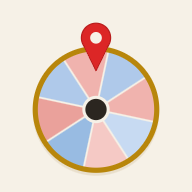
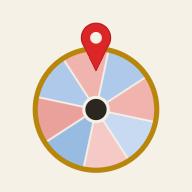
앱 아이콘에서 룰렛 아래 그림자를 빼고 깔끔하게
룰렛 뒤에 깔았던 진한 베이지 원(그림자 효과)을 없애 앱 머리 부분의 작은
룰렛과 같은 평평한 모양으로 통일. 서비스워커 캐시를 v4로 올려 v3 아이콘을
이미 받은 폰도 새 아이콘으로 교체.

diff --git a/sw.js b/sw.js
@@ -6,8 +6,8 @@
 // 계속 보이는 버그가 있었다 (앱 재설치로도 안 고쳐짐 - 저장공간을 공유하기 때문).
 // v2부터는: 문서(HTML)는 항상 "네트워크 우선"으로 최신 버전을 먼저 시도하고,
 // 오프라인일 때만 캐시로 대체한다. 아이콘/매니페스트 같은 정적 자산만 캐시 우선을 유지.
-// v3 (2026-10-04): 앱 아이콘을 새 디자인으로 바꿔서, 폰에 저장돼 있던 예전 아이콘을 버리도록 버전을 올림
-const CACHE_NAME = "baram-cache-v3";
+// v4 (2026-10-04): 앱 아이콘을 새 디자인(그림자 없는 룰렛 + 빨간 핀)으로 바꿔서, 폰에 저장돼 있던 예전 아이콘을 버리도록 버전을 올림
+const CACHE_NAME = "baram-cache-v4";
 const CORE_ASSETS = ["/", "/index.html", "/manifest.json", "/icon-192.png", "/icon-512.png", "/icon-maskable-192.png", "/icon-maskable-512.png"];
 
 self.addEventListener("install", (event) => {
